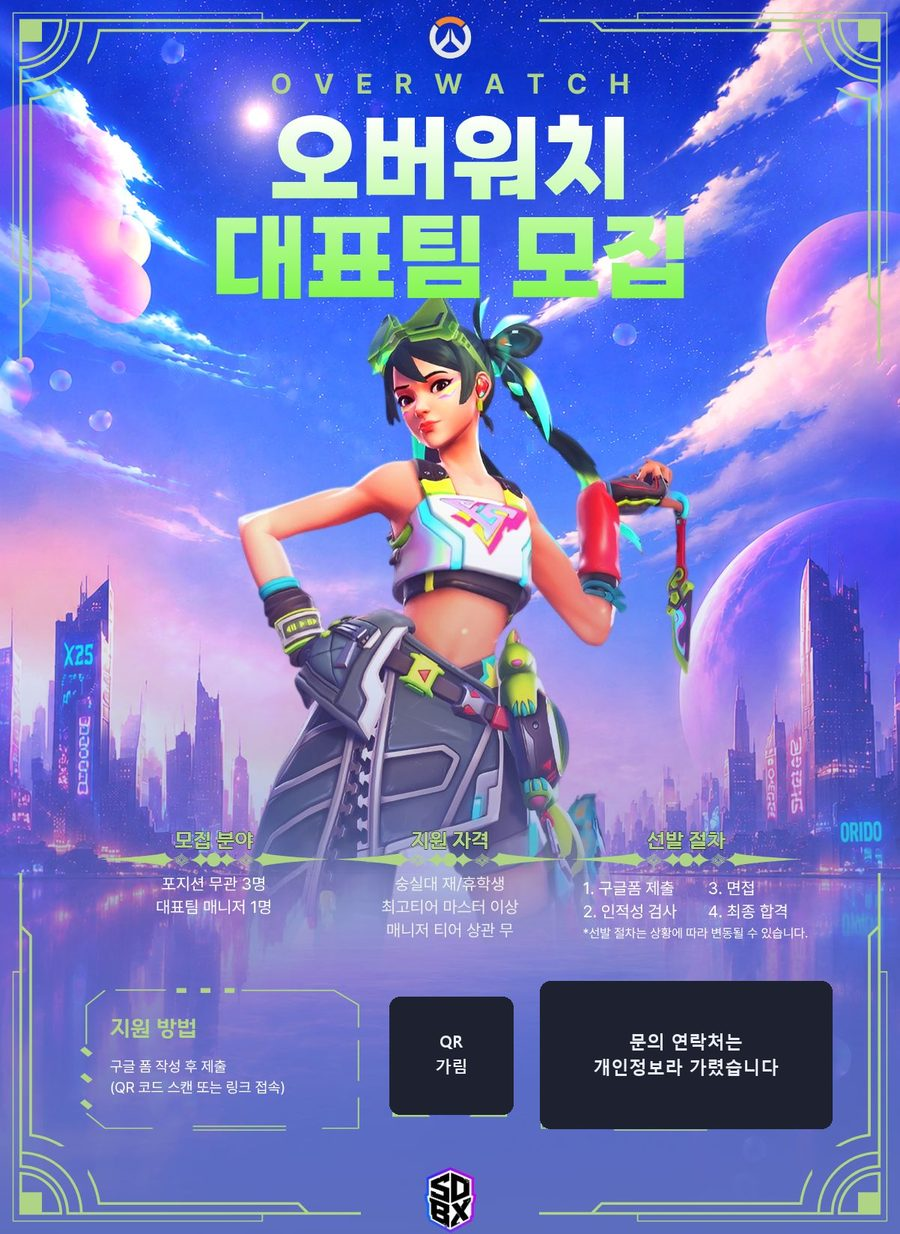
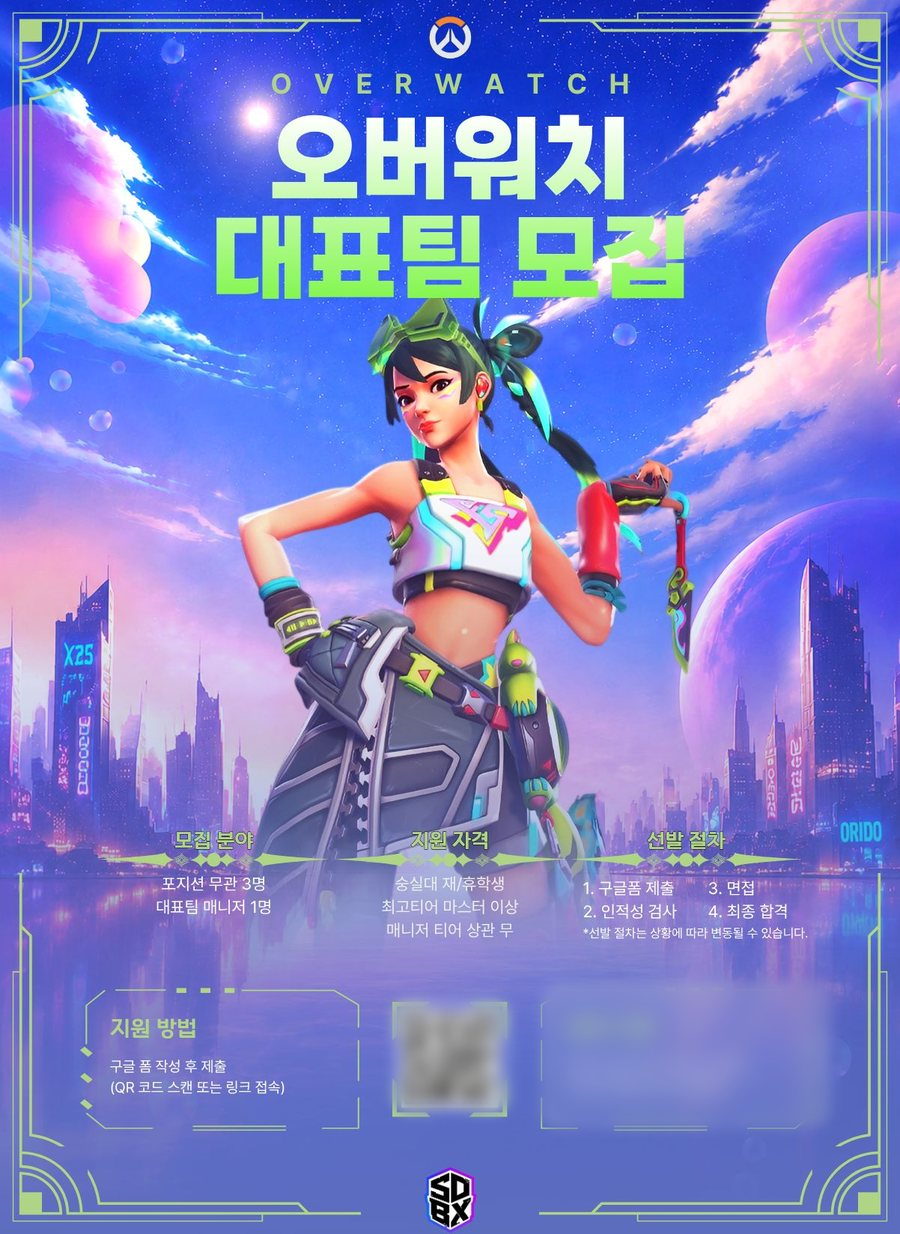
포스터의 연락처·QR을 검은 박스 대신 블러 처리, README 포스터 3장 나란히

Changed region(s): [[0.4044, 0.7699, 0.9333, 0.9238]]

diff --git a/index.html b/index.html
@@ -176,8 +176,9 @@
 <p>Retargeting: vert_control 1.0 → 0.8로 Corner 부근 과보정 방지</p>
 <p>Hierman으로 Template 생성 후 Corexec으로 Recipe를 적용해 OPC 수행, Contour simulation 후 CD 측정</p></div></section><section class="shs"><h3>문제 해결 과정</h3><div class="shb"><p>파라미터마다 영향을 주는 영역이 달라, 변경 항목별로 예상 결과를 먼저 세운 뒤 실제 측정값과 대조했습니다.</p>
 <p>두 recipe의 Contour를 같은 위치에서 측정해 Segment 세분화 → Corner·Edge 보정 정밀도 향상이라는 가설을 확인했습니다.</p></div></section><section class="shs"><h3>결과</h3><div class="shb res"><p>Split recipe 적용으로 <strong>Corner Rounding 24.39nm → 19.1nm</strong>, Mask–Contour CD 차이 5nm → 3.5nm, Contour narrowing 1.5nm → 1nm로 개선됐고 Line Edge Roughness도 감소했습니다.</p></div></section><section class="shs"><h3>증빙 자료</h3><div class="shev"><a class="btn" href="https://gamedh823-cmd.github.io/portfolio/projects/lithography-opc-pbl/lithography_pbl.pdf" target="_blank" rel="noopener">PBL 과제 발표자료 (PDF)</a><a class="btn ghost" href="https://github.com/gamedh823-cmd/portfolio/blob/main/projects/lithography-opc-pbl/README.md" target="_blank" rel="noopener">GitHub README</a></div></section></template>
-<template id="t-club-design"><div class="shtags"><span class="tag">포스터</span><span class="tag">대회 UI</span><span class="tag">로고</span><span class="tag">바이브코딩</span></div><section class="shs"><h3>무엇을</h3><div class="shb"><p>학교 중앙 E-SPORTS 동아리의 홍보국장으로서, 신입부원 모집과 대표팀 모집 포스터, 개강총회 표지 및 자료, 대학 교류전 대진 화면, 자체 리그 로고(SFL, SOL) 등을 만들었습니다.</p></div></section><section class="shs"><h3>어떻게</h3><div class="shb"><p>바이브코딩, 즉 AI 도구에 원하는 결과를 말로 지시해 만드는 방식으로 만든 것이 많습니다.</p></div></section><section class="shs"><h3>작업물</h3><div class="shb"><div class="gal wide"><figure><img src="./assets/club/opening-ceremony-wide.jpg" alt="개강총회 표지 (2026.09.11)" loading="lazy"><figcaption>개강총회 표지 (2026.09.11)</figcaption></figure><figure><img src="./assets/club/ow-exchange-thumb.jpg" alt="오버워치 대학교류전 대진 화면 (6개 대학 동아리)" loading="lazy"><figcaption>오버워치 대학교류전 대진 화면 (6개 대학 동아리)</figcaption></figure></div><div class="gal"><figure><img src="./assets/club/recruit-poster.jpg" alt="신입부원 모집 포스터 (SDBX 26-2 19기)" loading="lazy"><figcaption>신입부원 모집 포스터 (SDBX 26-2 19기)</figcaption></figure><figure><img src="./assets/club/lol-team-poster.jpg" alt="리그 오브 레전드 대표팀 모집 포스터" loading="lazy"><figcaption>리그 오브 레전드 대표팀 모집 포스터</figcaption></figure><figure><img src="./assets/club/valorant-team-poster.jpg" alt="발로란트 대표팀 모집 포스터" loading="lazy"><figcaption>발로란트 대표팀 모집 포스터</figcaption></figure><figure><img src="./assets/club/overwatch-team-poster.jpg" alt="오버워치 대표팀 모집 포스터" loading="lazy"><figcaption>오버워치 대표팀 모집 포스터</figcaption></figure></div><div class="gal pair"><figure><img src="./assets/club/logo-sfl.jpg" alt="자체 리그 로고 SFL (SSANDBOX Frontier League)" loading="lazy"><figcaption>자체 리그 로고 SFL (SSANDBOX Frontier League)</figcaption></figure><figure><img src="./assets/club/logo-sol.jpg" alt="자체 리그 로고 SOL (SSANDBOX Overwatch League)" loading="lazy"><figcaption>자체 리그 로고 SOL (SSANDBOX Overwatch League)</figcaption></figure></div><p style="margin-top:14px">포스터의 문의 연락처(실명·전화번호)와 지원서 QR 코드는 가려서 올렸습니다.</p></div></section></template>
+<template id="t-club-design"><div class="shtags"><span class="tag">포스터</span><span class="tag">대회 UI</span><span class="tag">로고</span><span class="tag">바이브코딩</span></div><section class="shs"><h3>무엇을</h3><div class="shb"><p>학교 중앙 E-SPORTS 동아리의 홍보국장으로서, 신입부원 모집과 대표팀 모집 포스터, 개강총회 표지 및 자료, 대학 교류전 대진 화면, 자체 리그 로고(SFL, SOL) 등을 만들었습니다.</p></div></section><section class="shs"><h3>어떻게</h3><div class="shb"><p>바이브코딩, 즉 AI 도구에 원하는 결과를 말로 지시해 만드는 방식으로 만든 것이 많습니다.</p></div></section><section class="shs"><h3>작업물</h3><div class="shb"><div class="gal wide"><figure><img src="./assets/club/opening-ceremony-wide.jpg" alt="개강총회 표지 (2026.09.11)" loading="lazy"><figcaption>개강총회 표지 (2026.09.11)</figcaption></figure><figure><img src="./assets/club/ow-exchange-thumb.jpg" alt="오버워치 대학교류전 대진 화면 (6개 대학 동아리)" loading="lazy"><figcaption>오버워치 대학교류전 대진 화면 (6개 대학 동아리)</figcaption></figure></div><div class="gal"><figure><img src="./assets/club/recruit-poster.jpg" alt="신입부원 모집 포스터 (SDBX 26-2 19기)" loading="lazy"><figcaption>신입부원 모집 포스터 (SDBX 26-2 19기)</figcaption></figure><figure><img src="./assets/club/lol-team-poster.jpg" alt="리그 오브 레전드 대표팀 모집 포스터" loading="lazy"><figcaption>리그 오브 레전드 대표팀 모집 포스터</figcaption></figure><figure><img src="./assets/club/valorant-team-poster.jpg" alt="발로란트 대표팀 모집 포스터" loading="lazy"><figcaption>발로란트 대표팀 모집 포스터</figcaption></figure><figure><img src="./assets/club/overwatch-team-poster.jpg" alt="오버워치 대표팀 모집 포스터" loading="lazy"><figcaption>오버워치 대표팀 모집 포스터</figcaption></figure></div><div class="gal pair"><figure><img src="./assets/club/logo-sfl.jpg" alt="자체 리그 로고 SFL (SSANDBOX Frontier League)" loading="lazy"><figcaption>자체 리그 로고 SFL (SSANDBOX Frontier League)</figcaption></figure><figure><img src="./assets/club/logo-sol.jpg" alt="자체 리그 로고 SOL (SSANDBOX Overwatch League)" loading="lazy"><figcaption>자체 리그 로고 SOL (SSANDBOX Overwatch League)</figcaption></figure></div><p style="margin-top:14px">포스터의 문의 연락처(실명·전화번호)와 지원서 QR 코드는 알아볼 수 없게 흐리게 처리해서 올렸습니다.</p></div></section></template>
 <!--/PROJECT-TEMPLATES-->
+
 
 
 

diff --git a/README.md b/README.md
@@ -136,14 +136,15 @@
 - 키값이 틀리면 "키값이 맞지 않아요"라고 알리고 문서는 열리지 않습니다.
 - 키값을 입력해 열면 그때서야 문서 본문과 "PDF 다운로드" 버튼이 나옵니다.
 
-### 2. 포스터와 화면 속 이름·전화번호는 가려서 올렸습니다
+### 2. 포스터 속 이름·전화번호·QR 코드는 흐리게 처리해서 올렸습니다
 
-동아리 홍보국장으로서 만든 포스터에는 회장의 실명과 전화번호, 인스타그램 아이디, 그리고 지원서(구글 폼)로 연결되는 QR 코드가 들어 있었습니다. 원본은 올리지 않고, 해당 부분을 덮은 이미지만 올렸습니다.
+동아리 홍보국장으로서 만든 포스터에는 회장의 실명과 전화번호, 인스타그램 아이디, 그리고 지원서(구글 폼)로 연결되는 QR 코드가 들어 있었습니다. 원본은 올리지 않고, 해당 부분을 흐리게 처리한 이미지만 올렸습니다.
 
-| 대표팀 모집 포스터 |
-|---|
-| <img src="assets/club/valorant-team-poster.jpg" width="260" alt="문의 연락처와 QR 코드를 가린 포스터"> |
-| 문의 박스(실명·전화번호·인스타그램)와 지원서 QR 코드를 덮음. 신입부원 모집 포스터 등 다른 포스터의 QR 코드도 모두 가렸습니다 |
+| 리그 오브 레전드 대표팀 모집 | 발로란트 대표팀 모집 | 오버워치 대표팀 모집 |
+|:---:|:---:|:---:|
+| <img src="assets/club/lol-team-poster.jpg" width="220" alt="리그 오브 레전드 대표팀 모집 포스터"> | <img src="assets/club/valorant-team-poster.jpg" width="220" alt="발로란트 대표팀 모집 포스터"> | <img src="assets/club/overwatch-team-poster.jpg" width="220" alt="오버워치 대표팀 모집 포스터"> |
+
+문의 박스(실명·전화번호·인스타그램)와 지원서 QR 코드를 검은 박스로 덮지 않고 **흐리게(블러) 처리**해서 포스터의 모양은 그대로 두었습니다. 신입부원 모집 포스터의 QR 코드도 같은 방식으로 흐리게 처리했습니다. 흐림 정도는 글자를 읽거나 QR을 스캔할 수 없을 만큼 강합니다.
 
 - 이름이나 번호가 들어 있어 가려야 하는 다른 자료(이용수칙, 대회 팀 소개 화면 등)는 아예 올리지 않았습니다.
 - 올리기 전과 후에 저장소 전체에서 전화번호 형태, 해당 이름, 인스타그램 아이디를 검색해 남아 있지 않은지 확인했습니다.
